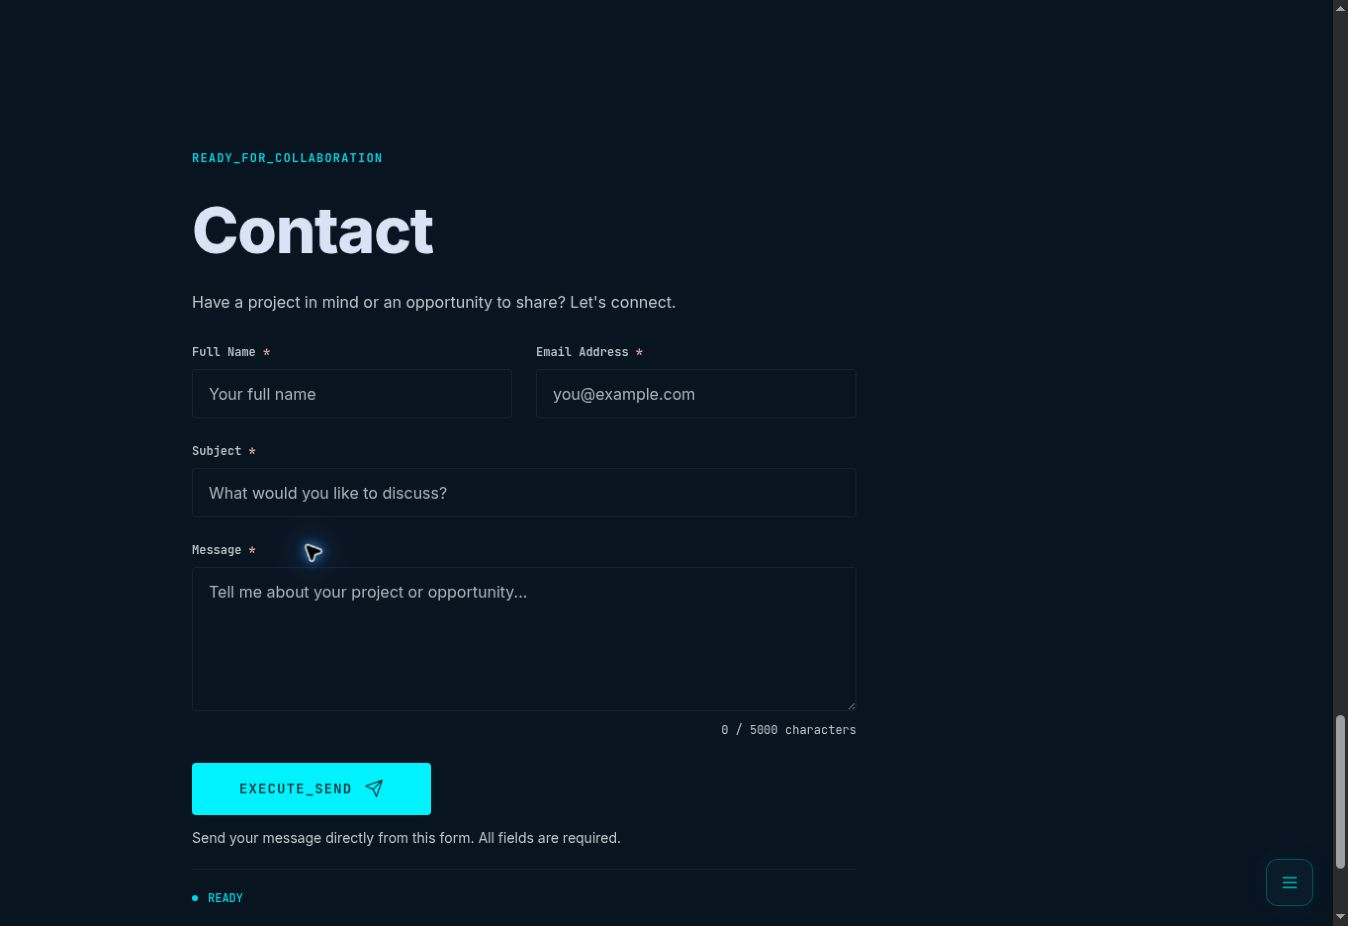
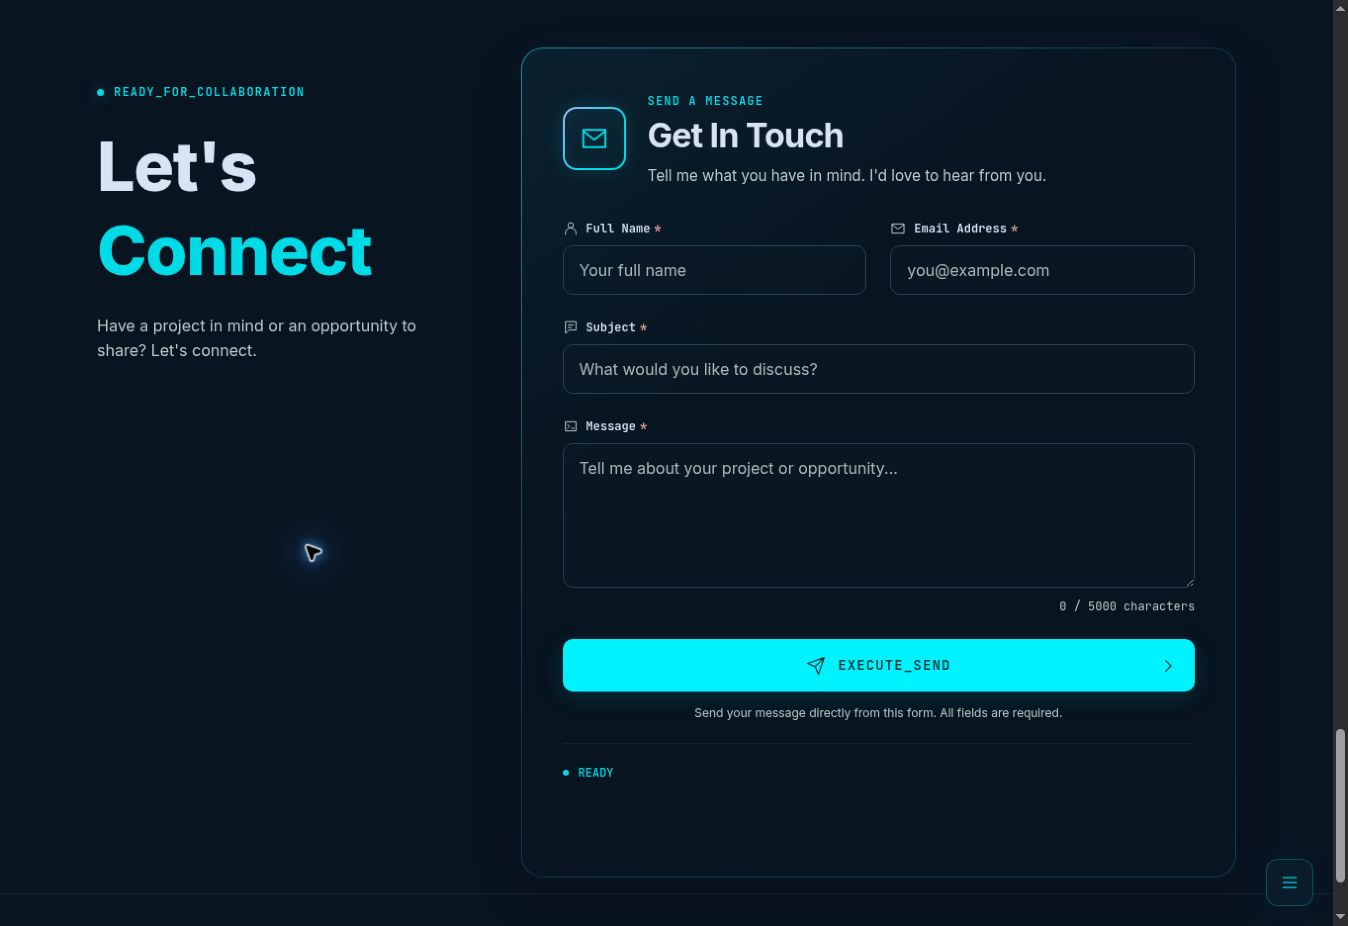
Style Contact as a responsive cyan glow card

diff --git a/src/styles.css b/src/styles.css
@@ -951,15 +951,28 @@ button:hover {
   margin-top: 168px;
 }
 .contact-inner {
-  padding: 0 96px;
+  display: grid;
+  grid-template-columns: minmax(220px, 0.75fr) minmax(0, 1.45fr);
+  gap: clamp(28px, 4vw, 64px);
+  align-items: start;
+  padding: 0;
   max-width: 100%;
 }
-.contact-inner > .eyebrow {
+.contact-lead { padding-top: 36px; }
+.contact-lead > .eyebrow {
   display: block;
   margin-bottom: 24px;
 }
+.contact-lead > .eyebrow::before { content: ""; display: inline-block; width: 7px; height: 7px; margin-right: 10px; border-radius: 50%; background: var(--cyan); box-shadow: 0 0 14px #00dbe780; }
+.contact h2 span { display: block; color: var(--cyan); }
+.contact-card { min-width: 0; padding: clamp(24px, 3vw, 42px); border: 1px solid transparent; border-radius: 22px; background: linear-gradient(145deg, #0b202e, #08141f 40%) padding-box, linear-gradient(135deg, #27cce8a6, #193545 45%, #15728a80) border-box; box-shadow: 0 16px 48px #00000026, -8px -8px 36px #00dbe706; transition: box-shadow 200ms ease; }
+.contact-card:focus-within { box-shadow: 0 16px 48px #00000026, 0 0 32px #00dbe712; }
+.contact-card-header { display: flex; align-items: center; gap: 22px; margin-bottom: 32px; }
+.contact-card-icon { display: grid; place-items: center; flex: 0 0 64px; height: 64px; border: 2px solid transparent; border-radius: 14px; color: var(--cyan); background: linear-gradient(145deg, #102638, #08202c) padding-box, linear-gradient(125deg, #aab5ff, #00dbe7 65%) border-box; box-shadow: 0 0 22px #00dbe72a, inset 0 0 18px #00dbe710; }
+.contact-card-header h3 { margin: 6px 0 8px; font-size: clamp(1.65rem, 2.5vw, 2.4rem); line-height: 1.2; letter-spacing: -0.025em; }
+.contact-card-header p { color: var(--muted); font-size: 0.95rem; line-height: 1.6; }
 .contact h2 {
-  font-size: 4rem;
+  font-size: clamp(3rem, 5vw, 5rem);
   font-weight: 800;
   letter-spacing: -0.02em;
   line-height: 1.25;
@@ -972,8 +985,15 @@ button:hover {
 .contact-intro { color: var(--muted); margin: -12px 0 28px; }
 .contact-required { color: #ffb4ab; }
 .contact-count { color: var(--muted); font: 0.75rem/1.5 var(--mono); text-align: right; margin-top: 6px; }
-.contact .field label { letter-spacing: 0; }
-.contact .button-primary { min-width: 232px; }
+.contact .field label { display: flex; align-items: center; gap: 8px; letter-spacing: 0; color: var(--text); }
+.contact .field label svg { flex-shrink: 0; color: var(--muted); }
+.contact .contact-required { margin-left: -4px; }
+.contact-card input, .contact-card textarea { border-radius: 10px; border-color: #294253; background: #0b1a2580; }
+.contact-card input[aria-invalid="true"], .contact-card textarea[aria-invalid="true"] { border-color: #ffb4ab; }
+.contact-card input:focus, .contact-card textarea:focus { border-color: var(--cyan); box-shadow: 0 0 0 2px #00dbe71f, 0 0 18px #00dbe70a; }
+.contact .button-primary { position: relative; width: 100%; min-width: 0; border-radius: 10px; box-shadow: 0 6px 24px #00dbe724; }
+.contact-send-arrow { position: absolute; right: 18px; }
+.contact .form-helper { text-align: center; font-size: 0.75rem; line-height: 1.65; }
 .contact .button-primary:disabled { opacity: 0.7; transform: none; box-shadow: none; cursor: progress; }
 .contact-trap { position: absolute; width: 1px; height: 1px; overflow: hidden; clip-path: inset(50%); }
 .contact-status { min-height: 94px; margin-top: 20px; padding: 16px 0; border-top: 1px solid var(--border); }
@@ -1287,8 +1307,13 @@ textarea[aria-invalid="true"] {
     margin-top: 64px;
   }
   .contact-inner {
-    padding: 0 48px;
+    padding: 0;
+    grid-template-columns: 1fr;
+    gap: 28px;
   }
+  .contact-lead { padding-top: 0; }
+  .contact h2 span { display: inline-block; margin-left: 0.25em; white-space: nowrap; }
+  .contact-intro { margin-bottom: 0; }
   .footer {
     padding-top: 20px;
     padding-bottom: 48px;
@@ -1438,8 +1463,14 @@ textarea[aria-invalid="true"] {
     padding: 0;
   }
   .contact h2 {
-    font-size: 2.5rem;
+    font-size: clamp(2rem, 9vw, 2.5rem);
   }
+  .contact-card { padding: 24px 18px; border-radius: 18px; }
+  .contact-card-header { gap: 14px; align-items: flex-start; }
+  .contact-card-icon { flex-basis: 48px; height: 48px; border-radius: 12px; }
+  .contact-card-icon svg { width: 24px; height: 24px; }
+  .contact-card-header .eyebrow { font-size: 0.625rem; }
+  .contact-card-header p { font-size: 0.875rem; }
   .contact-fields {
     grid-template-columns: 1fr;
     gap: 20px;

diff --git a/src/components/Contact.jsx b/src/components/Contact.jsx
@@ -73,9 +73,16 @@ export default function Contact({ data }) {
   return (
     <section id="contact" tabIndex={-1} className="contact container" aria-labelledby="contact-title">
       <div className="contact-inner">
+        <div className="contact-lead">
         <span className="eyebrow">{data.eyebrow}</span>
-        <h2 id="contact-title">{data.title}</h2>
+        <h2 id="contact-title" aria-label={data.title}>{data.headingLead}<span>{data.headingAccent}</span></h2>
         <p className="contact-intro">{data.description}</p>
+        </div>
+        <div className="contact-card">
+        <header className="contact-card-header">
+          <span className="contact-card-icon"><Icon name={data.cardIcon} size={30} /></span>
+          <div><span className="eyebrow">{data.cardEyebrow}</span><h3>{data.cardTitle}</h3><p>{data.cardDescription}</p></div>
+        </header>
         <form onSubmit={submit} noValidate aria-busy={locked}>
           <div className="contact-fields">
             {data.fields.map(field => {
@@ -92,7 +99,7 @@ export default function Contact({ data }) {
               };
               return (
                 <div className={`field ${field.wide ? "field-wide" : ""}`} key={field.name}>
-                  <label htmlFor={common.id}>{field.label}<span className="contact-required" aria-hidden="true"> *</span></label>
+                  <label htmlFor={common.id}><Icon name={field.icon} size={16} />{field.label}<span className="contact-required" aria-hidden="true"> *</span></label>
                   {field.type === "textarea" ? <textarea {...common} rows={5} /> : <input {...common} type={field.type} autoComplete={field.autocomplete} />}
                   {field.name === "message" && <p className="contact-count" id="contact-message-count">{messageLength} / {field.maxLength} {data.characters}</p>}
                   {errors[field.name] && <p className="field-error" id={`error-${field.name}`}>{errors[field.name]}</p>}
@@ -105,7 +112,7 @@ export default function Contact({ data }) {
             <input id="contact-website" name="website" type="text" tabIndex={-1} autoComplete="off" maxLength={200} />
           </div>
           <button type="submit" className="button button-primary" disabled={locked}>
-            {locked ? data.sending : data.submit}<Icon name="send" size={20} />
+            <Icon name="send" size={20} />{locked ? data.sending : data.submit}<Icon name="right" size={18} className="contact-send-arrow" />
           </button>
           <p className="form-helper">{data.helper}</p>
           <div className={`contact-status contact-status--${state}`} role="status" aria-live="polite" aria-atomic="true">
@@ -113,6 +120,7 @@ export default function Contact({ data }) {
             {feedback && <p>{feedback}</p>}
           </div>
         </form>
+        </div>
       </div>
     </section>
   );

diff --git a/docs/CONTACT-QA.md b/docs/CONTACT-QA.md
@@ -22,6 +22,10 @@ Base: main `5620f781dd839146be327cc21fb30d6df8b84f55`. Reviewed 2026-09-22.
 
 ## Remaining live verification
 
+### Reference card refresh
+
+Contact now uses a plain text introduction beside a rounded form card, with a cyan gradient border, glowing mail icon, field icons, rounded inputs, and full-width send action. No decorative background image or unverified availability/response-time claims were added. All copy and icon choices are JSON-driven. The existing API flow is unchanged. The 23 frontend tests and production build pass after the refresh; desktop and 390/320px layouts were visually reviewed, including a narrow-screen heading wrapping correction. `contact-review.jpg` shows the refreshed desktop card.
+
 Deployment and real inbox delivery are **not verified**. Configure backend SMTP credentials, authorized From address, recipient, public HTTPS API route, trusted proxy, and allowed frontend origin as described in CONTACT.md. Then submit through the deployed frontend, verify Inbox/Spam receipt and Reply-To, and exercise rejected delivery. Do not treat SMTP acceptance alone as proof of inbox arrival.
 
 Rate limiting and 15-minute deduplication are in-memory and intended for one API instance. Restarts/expiry or multiple replicas require shared storage for stronger guarantees. The form reuses request IDs while the page remains open; refreshing starts a new interaction.
